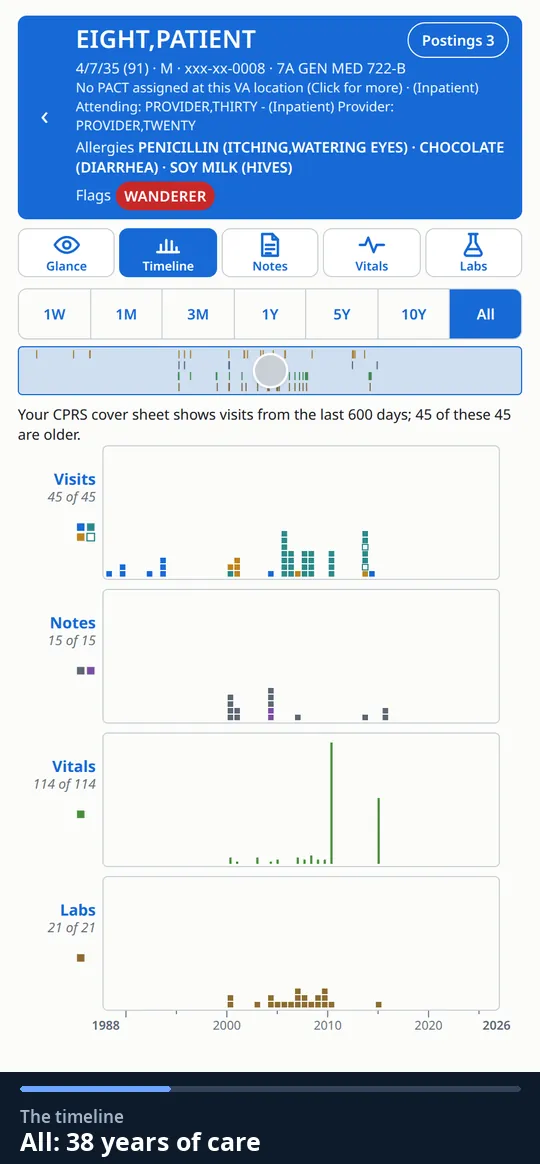
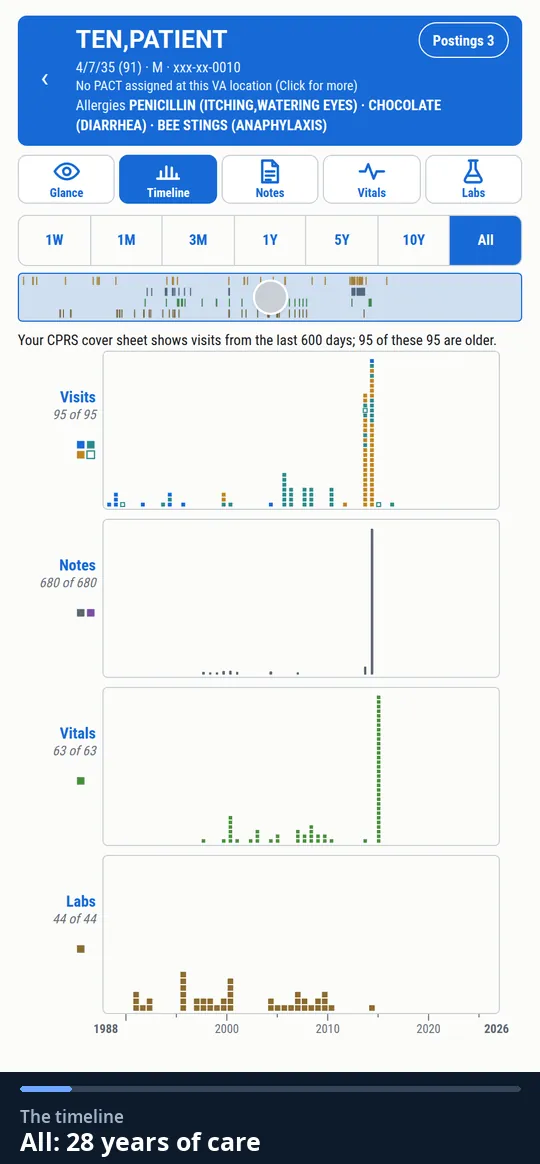
loupe guide: the lifelong record shown on TEN,PATIENT, the demo system's fullest record
EIGHT,PATIENT's timeline held 45 visits, 15 notes, 114 vitals days and 21
lab days. Counted across vehu (1,306 patients with a record, visits and
stays, signed notes and summaries, vitals days, lab days), TEN,PATIENT has
care in 27 of the 29 years from 1988 to 2016, the most of any, and leads
every lane by years; ONE,PATIENT has more notes and visits, but 97% of them
fall in 2013-2014. The loop now opens on TEN's 28 years (95 visits, 680
notes, 63 vitals days, 44 lab days), zooms in to one, five and ten years,
pans, and chooses the discharge summary of the 3/25/04 admission, ending on
the vitals that week: that admission's lab days hold nothing Loupe graphs.

Taken from a throwaway copy of vehu signed on as VEHU,TEN, through Loupe
406eb13's own API and web app; gold was not signed on to. The walkthrough
stays on EIGHT,PATIENT.

diff --git a/artifacts/loupe-guide/index.html b/artifacts/loupe-guide/index.html
@@ -293,10 +293,10 @@
       <h2 id="lifelong-h">A lifelong health record. <span>In your hand.</span></h2>
       <p class="lede3">CPRS spreads a record across tabs, each read in its own date range. Loupe's timeline puts all of it on one axis: visits and stays, notes and discharge summaries, every day with vitals and every day with labs, from the patient's first entry in VistA to today.</p>
       <div class="span-stat">
-        <b>1988 – 2026</b>
-        <span>45 visits · 15 notes · 114 vitals days · 21 lab days, on one phone screen (the demo patient)</span>
+        <b>1988 – 2016</b>
+        <span>95 visits · 680 notes · 63 vitals days · 44 lab days, on one phone screen</span>
       </div>
-      <p>In CPRS, this demo user's cover sheet lists visits from the last 600 days, which holds none of the patient's 45. The timeline shows all 45, and says so in a line above the lanes.</p>
+      <p>The demo patient here is TEN,PATIENT, the fullest lifelong record in VA's demo VistA system: care in 27 of the 29 years from 1988 to 2016, more years than any of its other 1,305 patients with a record. In CPRS, this demo user's cover sheet lists visits from the last 600 days, which holds none of the patient's 95. The timeline shows all 95, and says so in a line above the lanes.</p>
       <ul>
         <li><strong>Any scale.</strong> <span class="vista">1W 1M 3M 1Y 5Y 10Y All</span>, and a strip of the whole record under them to slide through the years.</li>
         <li><strong>Find an episode at a glance.</strong> Stacks of squares show where care clustered: an admission, a run of clinic visits, a week of labs.</li>
@@ -308,10 +308,10 @@
       <div class="phone">
         <picture>
           <source media="(prefers-reduced-motion: reduce)" srcset="img/timeline-poster.webp">
-          <img src="img/timeline-loop.webp" width="540" height="1164" alt="A 15-second loop of the timeline: one year, five years, ten years and all 38 years of the record; a ten-year window panned back and forward through time; the DIABETES note of 3/31/04 chosen on the timeline, lit on the Notes page and opened; and the labs at that moment.">
+          <img src="img/timeline-loop.webp" width="540" height="1164" alt="A 15-second loop of TEN,PATIENT's timeline: all 28 years of the record, then one year holding a single visit, five years and ten years; a ten-year window panned back and forward through time; the discharge summary of the 3/25/04 admission chosen on the timeline, lit on the Notes page and opened; and the vitals that week.">
         </picture>
       </div>
-      <figcaption>The timeline in 15 seconds: the spans, a pan through ten-year windows, a note chosen and read, and the labs at that moment. <span class="rm-note">Your device asks for reduced motion, so a still of the whole record is shown.</span></figcaption>
+      <figcaption>The timeline in 15 seconds: the spans, a pan through ten-year windows, an admission's discharge summary chosen and read, and the vitals that week. <span class="rm-note">Your device asks for reduced motion, so a still of the whole record is shown.</span></figcaption>
     </figure>
   </section>
 
@@ -686,7 +686,7 @@
   <section class="block about" id="about" aria-labelledby="about-h">
     <h2 id="about-h">About these screens</h2>
     <p>Loupe is an independent prototype from the vista-forge project. It is not a VA product, and the VA has not reviewed or endorsed it.</p>
-    <p>The screenshots were taken on 29 September 2026 from the Loupe web app at a phone's size, showing replies recorded from VA's demo VistA system for its test patient EIGHT,PATIENT. None of it is a real patient's data. The demo record ends in 2015, which is why latest readings say "11 yr". The notice on the sign-on screen is blurred because the demo system's notice lists its test accounts.</p>
+    <p>The screenshots were taken on 29 September 2026 from the Loupe web app at a phone's size, showing replies recorded from VA's demo VistA system for its test patient EIGHT,PATIENT. The lifelong record's loop shows another test patient, TEN,PATIENT, taken the same day from a copy of the demo system made for the purpose, signed on as the same demo user. None of it is a real patient's data. The demo record ends in 2015, which is why latest readings say "11 yr". The notice on the sign-on screen is blurred because the demo system's notice lists its test accounts.</p>
   </section>
 </div>
 </body>
